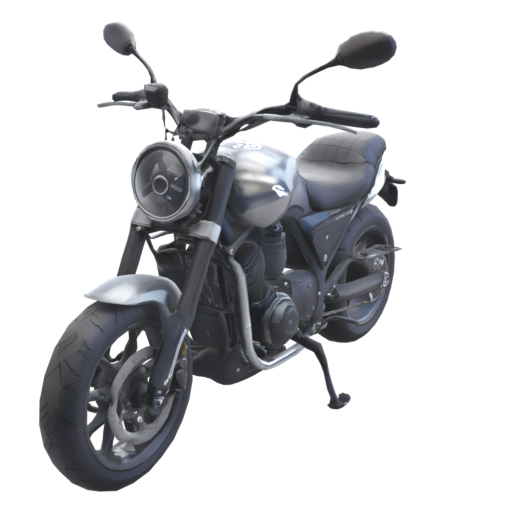
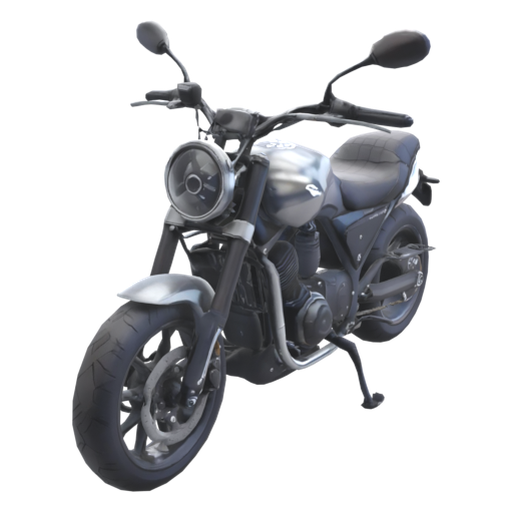
style(store): trim every vehicle card art so the cars and bikes fill their cards

diff --git a/tools/vehicle_art_trim.py b/tools/vehicle_art_trim.py
@@ -1,0 +1,18 @@
+from PIL import Image, ImageChops
+import glob
+import os
+
+BASE = r"C:\Users\user\Documents\kimi\tasks\2026-11-06\12-50-12-52283f1e\df-backup\assets\ui\store"
+
+for p in sorted(glob.glob(os.path.join(BASE, "vehicle_*.png"))):
+    im = Image.open(p).convert("RGBA")
+    box = im.split()[3].getbbox()
+    if box is None or (box[2] - box[0]) < 8:
+        diff = ImageChops.difference(im.convert("RGB"), Image.new("RGB", im.size, (255, 255, 255)))
+        box = diff.getbbox() or (0, 0, im.size[0], im.size[1])
+    crop = im.crop(box)
+    side = int(max(crop.size) * 1.08)
+    canvas = Image.new("RGBA", (side, side), (0, 0, 0, 0))
+    canvas.paste(crop, ((side - crop.size[0]) // 2, (side - crop.size[1]) // 2))
+    canvas.resize((512, 512), Image.LANCZOS).save(p)
+    print(os.path.basename(p), "was", box, "-> square", side)
